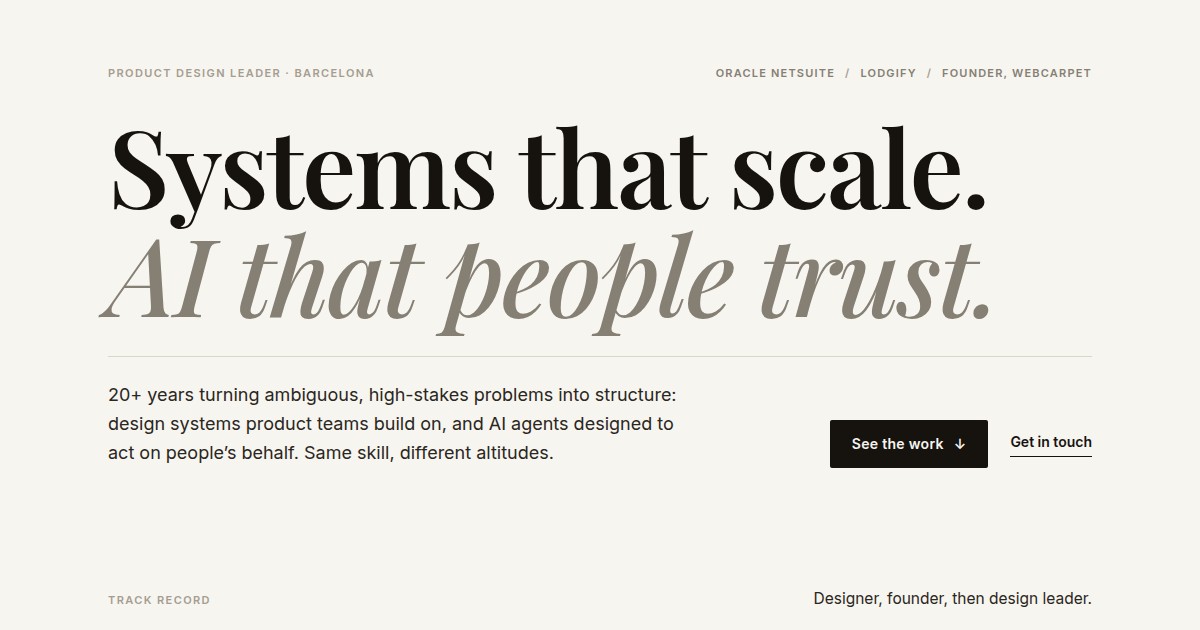
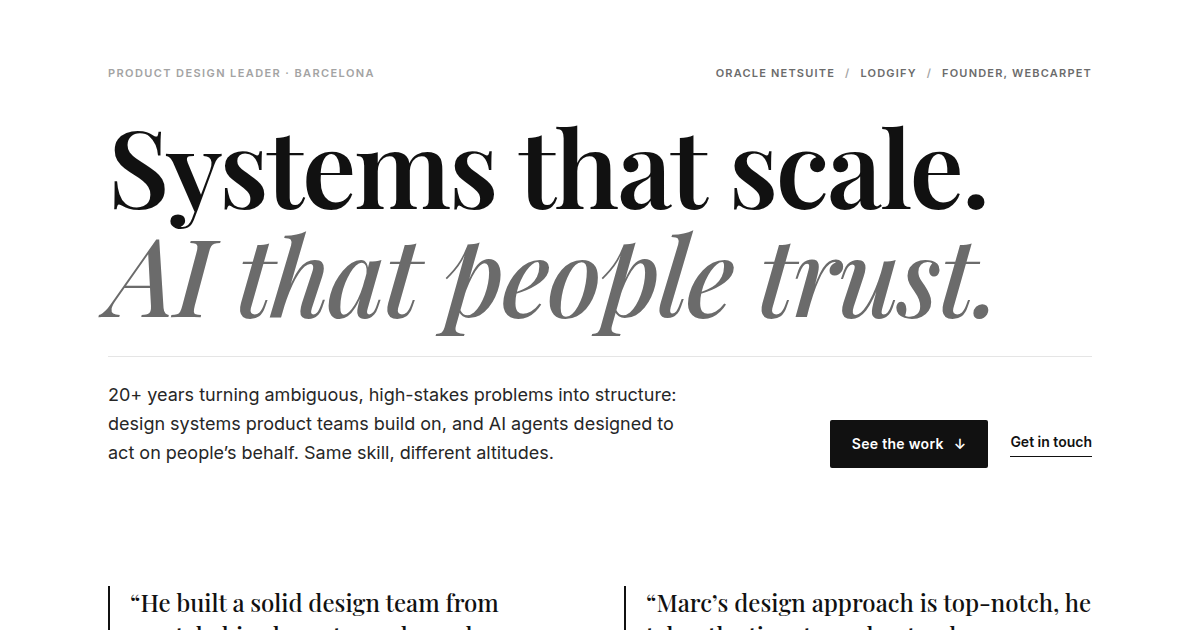
Move quotes above Track Record; switch to white, black and grey palette
Neutral tokens for light and dark mode on every page, favicon and link
preview image to match.

Claude-Session: https://claude.ai/code/session_01C6ee1zXA77t8X8bqW6Rm8z

diff --git a/index.html b/index.html
@@ -26,48 +26,48 @@
 
 /* ---------- Tokens ---------- */
 :root {
-  --bg: #f7f5f0;
-  --surface: #efebe2;
-  --fg: #2a2620;
-  --heading: #16130f;
-  --accent: #16130f;
-  --muted: #857f74;
-  --faint: #a49d90;
-  --line: #ddd6c8;
-  --warn: #a1531f;
-  --nav-bg: rgba(247,245,240,0.90);
-  --dash: #c9c0af;
+  --bg: #ffffff;
+  --surface: #f4f4f4;
+  --fg: #262626;
+  --heading: #111111;
+  --accent: #111111;
+  --muted: #6b6b6b;
+  --faint: #a3a3a3;
+  --line: #e5e5e5;
+  --warn: #4a4a4a;
+  --nav-bg: rgba(255,255,255,0.90);
+  --dash: #d4d4d4;
   --max: 1040px;
   --measure: 760px;
 }
 @media (prefers-color-scheme: dark) {
   :root:not([data-theme="light"]) {
-    --bg: #15130f;
-    --surface: #1e1b15;
-    --fg: #e6e1d6;
-    --heading: #f7f4ec;
-    --accent: #f7f4ec;
-    --muted: #948c7c;
-    --faint: #6e6858;
-    --line: #332e25;
-    --warn: #dd8551;
-    --nav-bg: rgba(21,19,15,0.88);
-    --dash: #453f32;
+    --bg: #111111;
+    --surface: #1b1b1b;
+    --fg: #e5e5e5;
+    --heading: #fafafa;
+    --accent: #fafafa;
+    --muted: #a3a3a3;
+    --faint: #737373;
+    --line: #2e2e2e;
+    --warn: #c4c4c4;
+    --nav-bg: rgba(17,17,17,0.88);
+    --dash: #404040;
     color-scheme: dark;
   }
 }
 :root[data-theme="dark"] {
-  --bg: #15130f;
-  --surface: #1e1b15;
-  --fg: #e6e1d6;
-  --heading: #f7f4ec;
-  --accent: #f7f4ec;
-  --muted: #948c7c;
-  --faint: #6e6858;
-  --line: #332e25;
-  --warn: #dd8551;
-  --nav-bg: rgba(21,19,15,0.88);
-  --dash: #453f32;
+  --bg: #111111;
+  --surface: #1b1b1b;
+  --fg: #e5e5e5;
+  --heading: #fafafa;
+  --accent: #fafafa;
+  --muted: #a3a3a3;
+  --faint: #737373;
+  --line: #2e2e2e;
+  --warn: #c4c4c4;
+  --nav-bg: rgba(17,17,17,0.88);
+  --dash: #404040;
   color-scheme: dark;
 }
 
@@ -447,9 +447,9 @@ figure { margin: 0; }
 .tile-a { grid-column: 1 / -1; aspect-ratio: 16 / 9; }
 .tile img { width: 100%; height: 100%; object-fit: cover; object-position: top left; transition: transform .5s cubic-bezier(.2,.7,.2,1); }
 .tile:hover img { transform: scale(1.03); }
-.tile-cap { position: absolute; left: 0; right: 0; bottom: 0; display: flex; flex-direction: column; gap: 2px; padding: 26px 14px 12px 14px; background: linear-gradient(to top, rgba(18,16,12,.82), rgba(18,16,12,0)); color: #f7f4ec; }
+.tile-cap { position: absolute; left: 0; right: 0; bottom: 0; display: flex; flex-direction: column; gap: 2px; padding: 26px 14px 12px 14px; background: linear-gradient(to top, rgba(17,17,17,.82), rgba(17,17,17,0)); color: #fafafa; }
 .tile-cap b { font-family: 'Playfair Display', Georgia, serif; font-size: 16px; font-weight: 600; }
-.tile-cap i { font-style: normal; font-size: 10.5px; font-weight: 600; letter-spacing: 1px; text-transform: uppercase; color: rgba(247,244,236,.78); }
+.tile-cap i { font-style: normal; font-size: 10.5px; font-weight: 600; letter-spacing: 1px; text-transform: uppercase; color: rgba(250,250,250,.78); }
 .tile:focus-visible { outline: 2px solid var(--heading); outline-offset: 3px; }
 @media (min-width: 700px) {
   .hero-x { padding-top: 64px; }
@@ -495,7 +495,7 @@ figure { margin: 0; }
 .wwm a { color: var(--muted); text-decoration: none; border-bottom: 1px solid var(--line); padding: 10px 0 2px; display: inline-block; }
 .wwm a:hover { color: var(--heading); border-color: var(--heading); }
 .hx-row { margin-bottom: 8px; }
-.proof-quotes { display: grid; grid-template-columns: 1fr; gap: 28px; margin-top: 56px; padding-top: 36px; border-top: 1px solid var(--line); }
+.proof-quotes { display: grid; grid-template-columns: 1fr; gap: 28px; }
 .pq { margin: 0; }
 .pq blockquote { margin: 0 0 14px; font-family: 'Playfair Display', Georgia, serif; font-size: 21px; line-height: 1.4; color: var(--heading); }
 .pq figcaption { font-size: 13px; color: var(--muted); padding-left: 22px; }
@@ -542,6 +542,22 @@ figure { margin: 0; }
     </div>
   </div>
 </header>
+
+<section id="proof" class="proof-sec">
+  <div class="wrap">
+    <div class="proof-quotes">
+      <figure class="pq">
+        <blockquote>&ldquo;He built a solid design team from scratch, hired great people, and gave them space and ownership.&rdquo;</blockquote>
+        <figcaption><b>Alexandre Humeau</b> &middot; VP Product, Lodgify</figcaption>
+      </figure>
+      <figure class="pq">
+        <blockquote>&ldquo;Marc&rsquo;s design approach is top-notch, he takes the time to understand use cases and user needs.&rdquo;</blockquote>
+        <figcaption><b>Chad Mueller</b> &middot; Oracle NetSuite</figcaption>
+      </figure>
+    </div>
+    <p class="pq-more"><a href="#recommendations">Read the full recommendations &darr;</a></p>
+  </div>
+</section>
 
 <section id="record">
   <div class="wrap">
@@ -626,17 +642,6 @@ figure { margin: 0; }
       <li><span class="y">2020</span><span class="r">Manager, Experience Design, Global Innovation team</span></li>
       <li><span class="y">2022</span><span class="r">Lodgify: Product Design Manager, then Head of Design</span></li>
     </ol>
-    <div class="proof-quotes">
-      <figure class="pq">
-        <blockquote>&ldquo;He built a solid design team from scratch, hired great people, and gave them space and ownership.&rdquo;</blockquote>
-        <figcaption><b>Alexandre Humeau</b> &middot; VP Product, Lodgify</figcaption>
-      </figure>
-      <figure class="pq">
-        <blockquote>&ldquo;Marc&rsquo;s design approach is top-notch, he takes the time to understand use cases and user needs.&rdquo;</blockquote>
-        <figcaption><b>Chad Mueller</b> &middot; Oracle NetSuite</figcaption>
-      </figure>
-    </div>
-    <p class="pq-more"><a href="#recommendations">Read the full recommendations &darr;</a></p>
   </div>
 </section>
 

diff --git a/css/style.css b/css/style.css
@@ -10,48 +10,48 @@
 
 /* ---------- Tokens ---------- */
 :root {
-  --bg: #f7f5f0;
-  --surface: #efebe2;
-  --fg: #2a2620;
-  --heading: #16130f;
-  --accent: #16130f;
-  --muted: #857f74;
-  --faint: #a49d90;
-  --line: #ddd6c8;
-  --warn: #a1531f;
-  --nav-bg: rgba(247,245,240,0.90);
-  --dash: #c9c0af;
+  --bg: #ffffff;
+  --surface: #f4f4f4;
+  --fg: #262626;
+  --heading: #111111;
+  --accent: #111111;
+  --muted: #6b6b6b;
+  --faint: #a3a3a3;
+  --line: #e5e5e5;
+  --warn: #4a4a4a;
+  --nav-bg: rgba(255,255,255,0.90);
+  --dash: #d4d4d4;
   --max: 1040px;
   --measure: 760px;
 }
 @media (prefers-color-scheme: dark) {
   :root:not([data-theme="light"]) {
-    --bg: #15130f;
-    --surface: #1e1b15;
-    --fg: #e6e1d6;
-    --heading: #f7f4ec;
-    --accent: #f7f4ec;
-    --muted: #948c7c;
-    --faint: #6e6858;
-    --line: #332e25;
-    --warn: #dd8551;
-    --nav-bg: rgba(21,19,15,0.88);
-    --dash: #453f32;
+    --bg: #111111;
+    --surface: #1b1b1b;
+    --fg: #e5e5e5;
+    --heading: #fafafa;
+    --accent: #fafafa;
+    --muted: #a3a3a3;
+    --faint: #737373;
+    --line: #2e2e2e;
+    --warn: #c4c4c4;
+    --nav-bg: rgba(17,17,17,0.88);
+    --dash: #404040;
     color-scheme: dark;
   }
 }
 :root[data-theme="dark"] {
-  --bg: #15130f;
-  --surface: #1e1b15;
-  --fg: #e6e1d6;
-  --heading: #f7f4ec;
-  --accent: #f7f4ec;
-  --muted: #948c7c;
-  --faint: #6e6858;
-  --line: #332e25;
-  --warn: #dd8551;
-  --nav-bg: rgba(21,19,15,0.88);
-  --dash: #453f32;
+  --bg: #111111;
+  --surface: #1b1b1b;
+  --fg: #e5e5e5;
+  --heading: #fafafa;
+  --accent: #fafafa;
+  --muted: #a3a3a3;
+  --faint: #737373;
+  --line: #2e2e2e;
+  --warn: #c4c4c4;
+  --nav-bg: rgba(17,17,17,0.88);
+  --dash: #404040;
   color-scheme: dark;
 }
 
